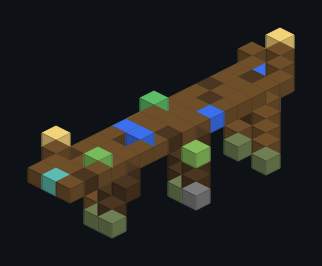
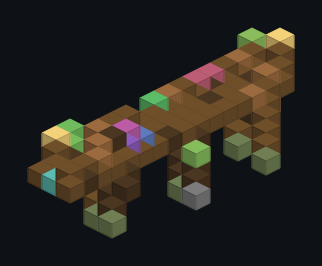
feat(world): bollards, rope rails, a net and a crude crane on the island jetty (st4b)

diff --git a/art/structures/pirate_island/jetty.py b/art/structures/pirate_island/jetty.py
@@ -3,10 +3,16 @@ JSON.
 
 The jetty runs north (seaward) from its ``jetty_in`` connector at the south end, which hangs it from the beach camp:
 the deck is at y 5, level with the camp's sand, the posts stand on mossy cobblestone footings on the seabed (y 0) and
-the sea surface is row y 4. The deck is x 1..3, patched with dark oak and a few half-rotten slabs; columns x 0 and
-x 4 hold the two berth markers (one per side, at sea level, one block out from the deck, pointing north: ships lie
-alongside, bow to the sea). The posts are crooked: bark and stripped logs mixed, some leaning on a stair brace."""
-from _style import PALETTE, torch_post
+the sea surface is row y 4. The deck is x 1..3, patched with dark oak, a salvaged jungle board and a few half-rotten
+slabs; columns x 0 and x 4 hold the two berth markers (one per side, at sea level, one block out from the deck,
+pointing north: ships lie alongside, bow to the sea) and stay clear of everything else. The posts are crooked: bark
+and stripped logs mixed, some leaning on a stair brace.
+
+ST4b: the seaward posts run on through the deck as palm bollards with a rope rail between them on the west side, a
+net hangs on the seaward rail post beside the lantern, a crude crane (a palm mast, a fence jib braced by a stair, a
+chain hook with a crate on it) stands at the landward end over a second stretch of rope rail, barrels and a lantern
+post on the other side; the middle (the berths) stays open."""
+from _style import PALETTE, SALVAGE, lantern_post, rope_rail, stair
 from buildspec import Piece
 
 W, L = 5, 16
@@ -31,34 +37,56 @@ for x, z, facing in ((WEST, 6, "west"), (EAST, 11, "east")):
     p.put(2, 0, z, "mossy")
     p.fill(2, 1, z, 2, 2, z, "dark_pile")
     p.fill(x, 3, z, x, SEA, z, "dark_pile")
-    p.put(2, 3, z, f"minecraft:spruce_stairs[facing={facing},half=top,shape=straight,waterlogged=false]")
+    p.put(2, 3, z, f"minecraft:spruce_stairs[facing={facing},half=top,shape=straight]")
 
-# deck: planks with dark oak patches and two sagging boards (slabs)
+# deck: planks with dark oak patches, a salvaged board and two sagging boards (slabs)
 p.fill(WEST, DECK, 0, EAST, DECK, L - 1, "spruce")
 for x, z in ((1, 3), (2, 4), (3, 8), (2, 10), (1, 13), (3, 14), (2, 1)):
     p.put(x, DECK, z, "dark")
+for x, z in ((3, 2), (1, 11)):
+    p.put(x, DECK, z, SALVAGE)
 for x, z in ((3, 5), (1, 9)):
-    p.put(x, DECK, z, "minecraft:spruce_slab[type=top,waterlogged=false]")
+    p.put(x, DECK, z, "minecraft:spruce_slab[type=top]")
 
-# the seaward end: a lantern on a post, a short rail, a ladder down the middle
+# the seaward end: a lantern on a post, a short rail with a net hung on it, a ladder down the middle
 p.put(EAST, DECK + 1, 0, "fence")
 p.put(EAST, DECK + 2, 0, "fence")
 p.put(EAST, DECK + 3, 0, "lantern")
 p.put(WEST, DECK + 1, 0, "fence")
+p.put(WEST, DECK + 2, 0, "cobweb")
 for y in range(SEA - 1, DECK + 1):
-    p.put(2, y, 0, "minecraft:ladder[facing=north,waterlogged=false]")
+    p.put(2, y, 0, "minecraft:ladder[facing=north]")
 p.put(2, SEA - 1, 1, "post")     # the ladder's backing below the cross beam row
 
-# a cleat and a mooring ring, a torch post at the landing, a lone barrel
+# the seaward posts carry on as palm bollards, the west pair joined by a rope rail
+p.put(WEST, DECK + 1, 1, "palm")
+p.put(EAST, DECK + 1, 1, "palm")
+rope_rail(p, WEST, 2, WEST, 5, DECK + 1, every=9)
+p.put(WEST, DECK + 1, 6, "palm")
+
+# a cleat and a mooring ring at the berths
 p.put(WEST, DECK + 1, BERTH_Z, "pirates_n_ships:cleat[face=floor,facing=north]")
-p.put(EAST, DECK + 1, BERTH_Z + 3, "pirates_n_ships:mooring_ring[face=floor,facing=east,waterlogged=false]")
-torch_post(p, WEST, DECK + 1, L - 2)
-p.put(EAST, DECK + 1, L - 3, "barrel")
+p.put(EAST, DECK + 1, BERTH_Z + 3, "pirates_n_ships:mooring_ring[face=floor,facing=east]")
+
+# the landward end: a crude crane on the east edge (a palm mast, a fence jib braced by an upside-down stair, a chain
+# hook with a crate on it), a rope rail to the landing; barrels and a lantern post on the west edge
+p.fill(EAST, DECK + 1, 13, EAST, DECK + 3, 13, "palm")
+p.put(EAST, DECK + 3, 12, "fence")
+p.put(EAST, DECK + 3, 11, "fence")
+p.put(EAST, DECK + 2, 12, stair("south", "top", "dark_oak"))
+p.put(EAST, DECK + 2, 11, "chain_y")
+p.put(EAST, DECK + 1, 11, "pirates_n_ships:cargo_crate")
+rope_rail(p, EAST, 14, EAST, 15, DECK + 1)
+p.put(WEST, DECK + 1, 12, "pirates_n_ships:cargo_barrel")
+p.put(WEST, DECK + 1, 13, "barrel")
+p.put(WEST, DECK + 2, 13, "minecraft:barrel[facing=south,open=false]")
+lantern_post(p, WEST, DECK + 1, L - 2)
 
 p.berth(0, SEA, BERTH_Z, "north")
 p.berth(W - 1, SEA, BERTH_Z, "north")
 p.connector(2, DECK, L - 1, "jetty_in", "south", "minecraft:spruce_planks")
 
-p.emit("rough plank jetty on crooked posts with a cleat, a mooring ring, a lantern and two berths",
+p.emit("rough plank jetty on crooked posts with palm bollards, rope rails, a crude crane, a cleat, a mooring ring, "
+       "a lantern and two berths",
        ["Runs north from jetty_in (south end, deck y 5 = the camp's sand row).",
         "Sea level is row y 4; berth markers at [0, 4, 7] and [4, 4, 7], bow north."])
